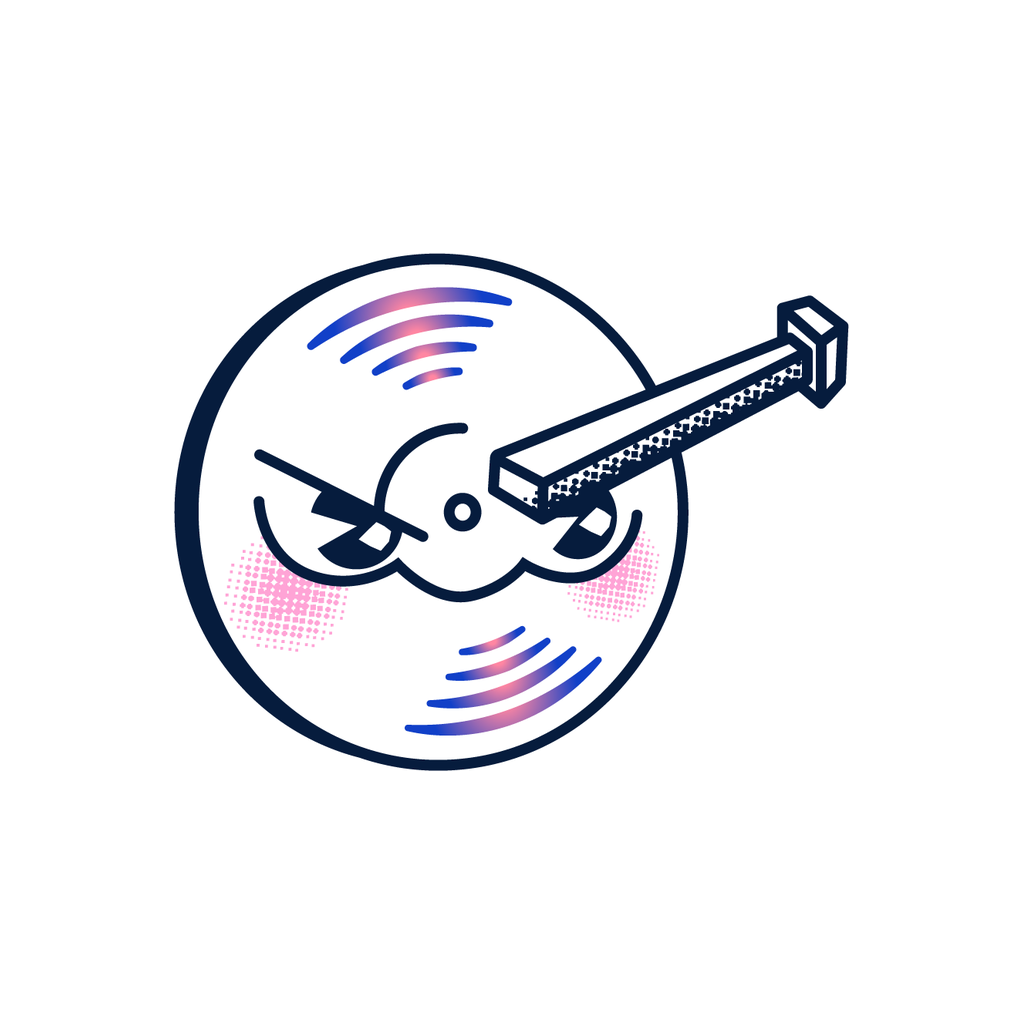
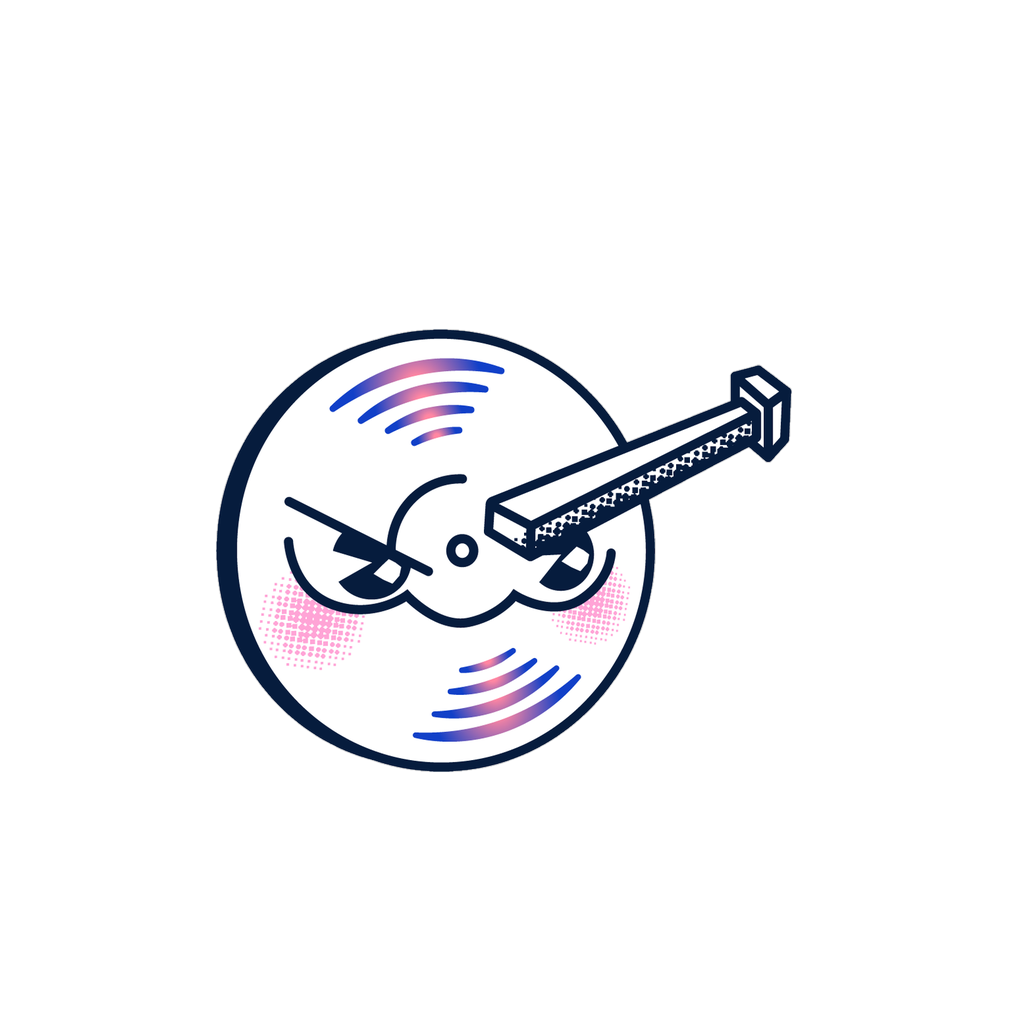
fix(android): сердечки в бренд-цвет, адаптивная иконка, подсказка в поиске, «Назад»
- AutoRail: want-count «♥ N» глифом → <Icon name="heart"> в Colors.royalBlue.
  На Android U+2665 рисовался цветным эмодзи (красное сердце); общая правка
  для обеих платформ по решению владельца.
- adaptive-icon.png: маскот из icon.png, вырезан по контуру и вписан в
  safe zone (r=306px от центра, прозрачные поля); monochromeImage для
  themed icons Android 13+. icon.png и iOS-baseline не тронуты.
- docs/BUGS.md: A18–A20, заметка «Как работает Назад на Android», итог
  проверки экранов и решение по predictiveBackGestureEnabled (оставлен off).

Changed region(s): [[0.1562, 0.25, 0.8438, 0.75]]

diff --git a/Вертушка/Mobile/components/AutoRail.tsx b/Вертушка/Mobile/components/AutoRail.tsx
@@ -34,6 +34,8 @@ import { ms } from '../lib/responsive';
 import { resolveMediaUrl, sizedCoverUrl } from '../lib/api';
 import { cleanArtistName } from '../lib/format';
 import { PublicProfileRecord } from '../lib/types';
+import { Icon } from './ui/Icon';
+import { Colors } from '../constants/theme';
 
 const PALETTE = {
   ink: '#1B1D26',
@@ -316,7 +318,13 @@ export function AutoRail({
             {r.format_type ? ` · ${r.format_type}` : ''}
           </Text>
           {r.discogs_want ? (
-            <Text style={styles.railWant}>♥ {r.discogs_want}</Text>
+            // Иконкой, а не глифом «♥»: Android рисовал U+2665 цветным эмодзи
+            // (красное сердце из Noto Color Emoji), iOS — текстом в цвете стиля.
+            // Бренд-акцент на обеих платформах — решение владельца.
+            <View style={styles.railWantRow}>
+              <Icon name="heart" size={ms(11)} color={Colors.royalBlue} hitSlop={0} />
+              <Text style={styles.railWant}>{r.discogs_want}</Text>
+            </View>
           ) : null}
         </>
       ) : null}
@@ -447,5 +455,6 @@ const styles = StyleSheet.create({
   },
   railTitleSmall: { fontSize: ms(12), fontWeight: '600', color: PALETTE.ink, marginTop: 2 },
   railYear: { fontSize: ms(12), color: PALETTE.periwinkle, marginTop: 2 },
-  railWant: { fontSize: ms(12), color: PALETTE.periwinkle, marginTop: 1, fontWeight: '600' },
+  railWantRow: { flexDirection: 'row', alignItems: 'center', gap: 3, marginTop: 1 },
+  railWant: { fontSize: ms(12), color: Colors.royalBlue, fontWeight: '600' },
 });

diff --git a/Вертушка/docs/BUGS.md b/Вертушка/docs/BUGS.md
@@ -418,3 +418,46 @@ LogBox: «Can't perform a React state update on a component that hasn't mounted 
 - **font_scale 1.3** перезапускает Activity (штатно для Android без `configChanges=fontScale`); «Наведите камеру на штрихкод пластинки» переносится на две строки (`134-fs13-collection`). Рост текста: `Штрихкод` 196→228 px (+16%), `Обложка` 170→197 (+16%), `Сканирование` 408→466 (+14%) — в пределах `MAX_FONT_SCALE = 1.15`. Один раз после смены масштаба процесс ушёл с переднего плана (`136-relaunched`), crash/kill в logcat не найден — не подтверждено.
 - **Тёмная тема:** `userInterfaceStyle: light` — приложение остаётся светлым при `cmd uimode night yes` (`127-dark-record`, `130-dark-collection`), иконки статус-бара тёмные ✅.
 - **Маркет:** карточки магазина Plastinka.com без обложек — плейсхолдеры (`112-store`), это данные каталога, не рендер.
+
+---
+
+## 🤖 Android-порт — полировка с реального телефона (2026-09-10)
+
+Четыре замечания владельца с реального Android-телефона (~360dp, 3-кнопочная навигация), PR `fix/android-polish`. Проверка — `pixel8_api36` (Android 16), dev-client, без логина (пароля демо-аккаунта в репо нет, регистрироваться/логиниться по ТЗ нельзя), поэтому всё за логином проверено кодом. Тег `[android]`.
+
+### A18. [android] Сердечки want-count в «Новинках» на Поиске — красные
+**Файл:** `Mobile/components/AutoRail.tsx` (`♥ {r.discogs_want}` под обложкой; рейл используется на Поиске и в публичном профиле)
+
+**Причина:** символ `♥` (U+2665) — текстовый глиф. В Roboto его нет, Android берёт фолбэк из Noto Color Emoji и рисует **цветное** эмодзи-сердце, игнорируя `color` стиля. iOS отдаёт глиф из SF/Inter и красит его в `periwinkle`, поэтому там сердечко всегда было в тон.
+
+**Статус:** ✅ закрыт 2026-09-10 — вместо глифа `<Icon name="heart" size={ms(11)} color={Colors.royalBlue}>` (Phosphor fill), счётчик тем же `royalBlue`. **Общая правка** для обеих платформ по решению владельца («сделаем фиолетовыми, не в нашем стиле»): на iOS сердечко из periwinkle-глифа стало брендовой иконкой.
+
+---
+
+### A19. [android] Адаптивная иконка обрезает маскота
+**Файл:** `Mobile/app.json` → `android.adaptiveIcon`, `Mobile/assets/images/adaptive-icon.png`
+
+**Причина:** foreground 1024×1024 с маскотом почти во весь холст (bbox 174–848 × 253–770). Лаунчер показывает под маской только safe zone 66/108dp (~61% холста), тонарм и края диска срезались.
+
+**Статус:** ✅ закрыт 2026-09-10 — новый foreground: маскот из `icon.png` (iOS-иконка не тронута), вырезан по контуру (flood-fill внешнего белого), вписан в окружность r=306px от центра холста (центр подобран минимизацией радиуса — маскот с тонармом несимметричен), поля прозрачные; ширина маскота 56% холста. `backgroundColor` остаётся `#ffffff` — фон исходной `icon.png` (углы 255/255/255; `#FAFBFF` у splash — другой ассет). Добавлен `monochromeImage` (`adaptive-icon-monochrome.png`, белый силуэт диск+тонарм) для themed icons Android 13+. `ci/check-ios-baseline.sh` зелёный без обновления baseline. Скрипт генерации — в описании PR.
+
+---
+
+### A20. [android] Подсказка «Прокрути вниз или нажми — и ты в Маркете» внизу Поиска не тапается
+**Файл:** `Mobile/app/(tabs)/search.tsx` (curtain-CTA в `ListHeaderComponent`), `Mobile/lib/useBottomContentInset.ts`
+
+**Причина:** до #193 нижний клиренс списка был константой 112 «под iOS»; с 3-кнопочной панелью (48dp) и пилюлей над ней CTA оставалась под `GlassTabBar`/панелью, тап уходил в них. Второй фактор — на Android `FlatList` не тянется за конец контента (нет bounce), поэтому overdrag-commit («прокрути вниз») там не срабатывает в принципе: тап — единственный вход в Маркет с этой плашки.
+
+**Статус:** ✅ по коду (#193 + 2026-09-10) — клиренс `useBottomContentInset({ tabBar: true, extra: 24 })` = `max(inset, 16) + 12 + 60 + 24` (3 кнопки: 48 → 144dp), fade-маска считается от того же числа. Перехватчиков тапов нет: кастомный `tabBar` в expo-router-обёртке `BottomTabView` рендерится без absolute-обёртки, контейнер `GlassTabBar` — 65% ширины по центру, fade-градиент `pointerEvents="none"`. На AVD не прогнано (Поиск за логином) — **проверить на телефоне владельца**: доскроллить вниз, плашка целиком над пилюлей, тап открывает Маркет. Текст «Прокрути вниз» на Android формально неверен (жеста нет) — оставлен, по решению владельца можно заменить через `Platform.select`.
+
+---
+
+### Как работает «Назад» на Android
+
+- **Источник события:** кнопка панели или жест от края → `MainActivity` → `ReactActivity` (RN 0.86 регистрирует `OnBackPressedCallback`, потому что для targetSdk 36 `onBackPressed()` больше не зовётся напрямую) → JS `BackHandler` → react-navigation. iOS-свайпа «от левого края» у native-stack на Android нет: `gestureEnabled` в `app/_layout.tsx` — только iOS.
+- **Стек:** один корневой `Stack` (`app/_layout.tsx`), все экраны (`record/[id]`, `artist/[id]`, `collection/value`, `radar`, `achievements`, `profile`, `settings/*`, legal) лежат в нём → системный «Назад» = `pop` на предыдущий экран, тот же путь, что `router.back()` в их шапках. Если стек пуст (холодный старт по deep link) — `router.back()` уводит на `(tabs)`.
+- **Табы:** `backBehavior` дефолтный (`firstRoute`): «Назад» со Скана/Коллекции → Поиск, с Поиска → приложение сворачивается (`exitApp`). Не баг, зафиксировано в наблюдениях WS7.
+- **Шиты и оверлеи:** RN `Modal` закрывается нативно (`onRequestClose`); gorhom-шиты и inline-оверлеи — `useAndroidBackClose(open, close)` (`OffersBottomSheet`, `PriceHistorySheet`, `ThresholdSheet`, `achievements.tsx` A10). Новый шит без хука будет уводить с экрана целиком — правило для ревью.
+- **`predictiveBackGestureEnabled` (Q7 плана) — оставлен выключенным.** Проверено 2026-09-10 сборкой с флагом (`android:enableOnBackInvokedCallback="true"`, жестовая панель, legal-страница): жест от края показывает только системную стрелку «назад», **превью предыдущего экрана не появляется** — `react-native-screens` 4.26 в обычном (не `gamma`) стеке не регистрирует `OnBackPressedCallback` с прогрессом, pop идёт через JS `BackHandler` → react-navigation, как и без флага; на отпускание стек корректно уходит на регистрацию, ничего не ломается. Т.е. включение не даёт видимого «заглянуть назад», а лишь меняет системный dispatch на Android 13–15 (RN 0.86 свой колбэк регистрирует при targetSdk 36 в любом случае), при этом сторонние Activity (crop expo-image-picker, dev-launcher) и шиты за логином на этом пути не прогнаны. Включать, когда expo-router перейдёт на стек с нативным predictive back (screens `gamma`), и после прогона за логином на устройстве.
+
+**Итог проверки 2026-09-10 (pixel8_api36, 3-кнопочная панель, тап по кнопке «Назад»):** legal-страница из регистрации → назад на форму регистрации с сохранённым состоянием ✅; «Забыли пароль» → назад на вход ✅; «Назад» на корне (вход) → приложение сворачивается на лаунчер, не крашится ✅. Экраны за логином (`record/[id]`, `artist/[id]`, `collection/value`, `radar`, `achievements`, `profile`, настройки) на AVD недоступны без аккаунта — по коду они в том же стеке, «Назад» для них идентичен legal-странице; прогнать на телефоне владельца.
